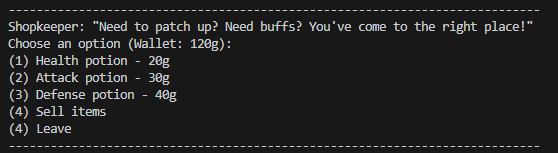
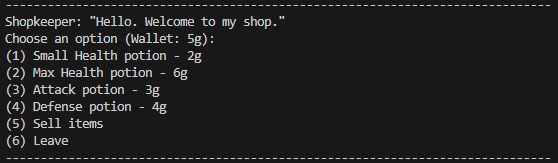
Phase 4 readme init

Changed region(s): [[0.0, 0.1046, 0.9749, 0.915], [0.0, 0.9412, 1.0, 0.9935], [0.0, 0.0261, 1.0, 0.0784]]

diff --git a/README.md b/README.md
@@ -7,22 +7,23 @@
 
  We will be using C++ and VScode for the entirety of our project. We will make everything text based.
 
- Our project will take in inputs throughout the entirety of the game. At the beginning, it will ask for a name and class. During the game, it will ask whether the user wants to go a certain path. During battles, the user will be asked what action they want to perform, if its using an item, casting a spell, or wielding a weapon. All inputs, besides name, will be selected using a number after being presented a list with numbers. As for outputs, because it is text based, all of the monsters, health, gold, actions, and paths will be shown through text throughout the game. We will output things such as:\
+ Our project will take in inputs throughout the entirety of the game. Starting the game will immediately put the user in a battle. During the game, it will ask whether the user wants to go a certain path. During battles, the user will be asked what action they want to perform: attack or use an item. All inputs will be selected using a number after being presented a list with numbers. As for outputs, because it is text based, all of the monsters, health, gold, actions, and paths will be shown through text throughout the game. We will output things such as:\
  "Welcome to the game"\
  "Player Health: 100/100"\
- "0 Training Grounds"\
- "Monsters in this stage:"\
- "1. dummy (Health: 30, Attack: 5)"\
- "2. dummy (Health: 30, Attack: 5)"\
- "Choose an action:"\
- "1. Attack"\
- "2. Items"\
+ "Enemies in this stage:"\
+ "  Zombie (Health: 18/18)"\
+ "  Goblin (Health: 12/12)"\
+ "Select an action:"\
+ "(1) Attack"\
+ "(2) Items"\
  There will also be special dialouge for events like shopkeepers. They may say:\
- "What do you want to buy?"\
- "1. helmet"\
- "2. health potion"\
- "3. antidote"\
- "4. No shopping for now"\
+ "Hello. Welcome to my shop."\
+ "(1) Small Health potion"\
+ "(2) Max Health potion"\
+ "(3) Attack potion"\
+ "(4) Defense potion"\
+ "(5) Sell items"\
+ "(6) Leave"\
  As a response, the user will choose a number to purchase anything.
 
  
@@ -46,7 +47,7 @@ Our battle layout will look like this:\
 Here, the user is shown information about the enemies' current health as well as their player's current health. The user is also prompted to choose between two actions: attack or use an item they possess. The attack option will decrease the enemies health and start the enemies turn. If the user chooses to use an item, they will be shown the inventory screen which is described in the next section. 
 
 If the user were to want to use an item in battle, they will be greeted with the following screen:\
-![Inventory Screen](images/inventoryScreen.png) \
+![Inventory Screen](images/inventoryScreen.png)\ 
 This screen shows the list of items that the player currently has available to use in their inventory. The player is provided with descriptions about each of the items they have. For example, the player has an attack potion in the first slot of their inventory. Additionally, this item has an attack power of 2 which will increase the player's attack power by 2. This screen also gives a brief description about what each item does.
 
 The enemies' turn screen will look like this:\
@@ -59,7 +60,7 @@ This screen follows our general layout. If the user chooses to visit the shopkee
 
 
 ### Class Diagram
-  ![UML Diagram 1](images/UMLDiagram1.png) ![UML Diagram 2](images/UMLDiagram2.png)
+  ![UML Diagram 1](images/UMLDiagram.png)
 
   * The Player class encapsulates the player's attributes and capabilities, such as health, attack power, and available moves. This class interacts with a specialized CharacterClass class, which defines the player’s starting stats, abilities, and moveset.
   * The moveset is further defined by an Attack class, which organizes individual attack moves available to the player.
@@ -77,18 +78,27 @@ This screen follows our general layout. If the user chooses to visit the shopkee
  * OCP is present in our implementation of the ItemInventory class. ItemInventory follows OCP because it is open for extension, but closed for modification because it stores objects of the base class Item (which all items like health and attack potions will derive from). For example, if we decide to add a new item to our game in the future, let's say a regeneration potion, we do not have to modify the code in ItemInventory because it stores Item object and the regeneration potion item would be a subclass of the Item class. Applying OCP helps us write better code because it allows us to add new features to a program without breaking or modifying existing code. This will also save us time because we would not have to modify/add code in order to have our new features work as intended.
  * We applied DIP in the screen class. The screen class has several subclasses for the different screens our game will have. Our screen class demonstrates DIP because the screen class itself is the high-level module and its subclasses are low-level modules. When we make calls to print a screen, we will make those calls using the screen class so our program will not be looking for a specific type of screen to print. Applying DIP allows us to write better code because, similar to OCP, it allows us to add new features (in our case, new screens) without altering existing code.
  
-  ## Final deliverable
-  All group members will give a demo to the reader during lab time. ou should schedule your demo on Calendly with the same reader who took your second scrum meeting. The reader will check the demo and the project GitHub repository and ask a few questions to all the team members. 
-  Before the demo, you should do the following:
-  * Complete the sections below (i.e. Screenshots, Installation/Usage, Testing)
-  * Plan one more sprint (that you will not necessarily complete before the end of the quarter). Your In-progress and In-testing columns should be empty (you are not doing more work currently) but your TODO column should have a full sprint plan in it as you have done before. This should include any known bugs (there should be some) or new features you would like to add. These should appear as issues/cards on your Project board.
-  * Make sure your README file and Project board are up-to-date reflecting the current status of your project (e.g. any changes that you have made during the project such as changes to your class diagram). Previous versions should still be visible through your commit history.
-  * Each team member should also submit the Individual Contributions Form on Canvas for this final phase. In this form, you need to fill in the names of all team members, the percentage of work contributed by each member for the final phase, and a description of their contributions. Remember that each team member should submit the form individually.
- 
+## Final deliverable
  ## Screenshots
-  Screenshots of the input/output after running your application
+  Starting Game:
+  ![Start Game Interaction](images/startGameInteraction.png)
+
+  Battle Interaction:
+  ![Battle Interaction](images/battleInteraction.png)
+
+  Checking Player Stats:
+  ![Player Stats Interaction](images/playerStatsInteraction.png)
+
+  Checking Player Inventory:
+  ![Player Inven Interaction](images/playerInvenInteraction.png)
+
+  Visiting and purchasing from shop:
+  ![Purchase Item Interaction](images/purchaseItemInteraction.png)
+  
+  Shop Selling interaction:
+  ![Shop Selling Interaction](images/shopSellingInteraction.png)
+
  ## Installation/Usage
-  Instructions on installing and running your application
+  In order to run the game, after cloning the repo, run `cmake . && make && ./game`
  ## Testing
-  How was your project tested/validated? If you used CI, you should have a "build passing" badge in this README.
- 
+  We tested our project primarily through unit tests for each main class to ensure each class works as intended and works as intended with other classes. When developing and testing classes that needed other classes that were not made yet, we created stubs for those classes.
